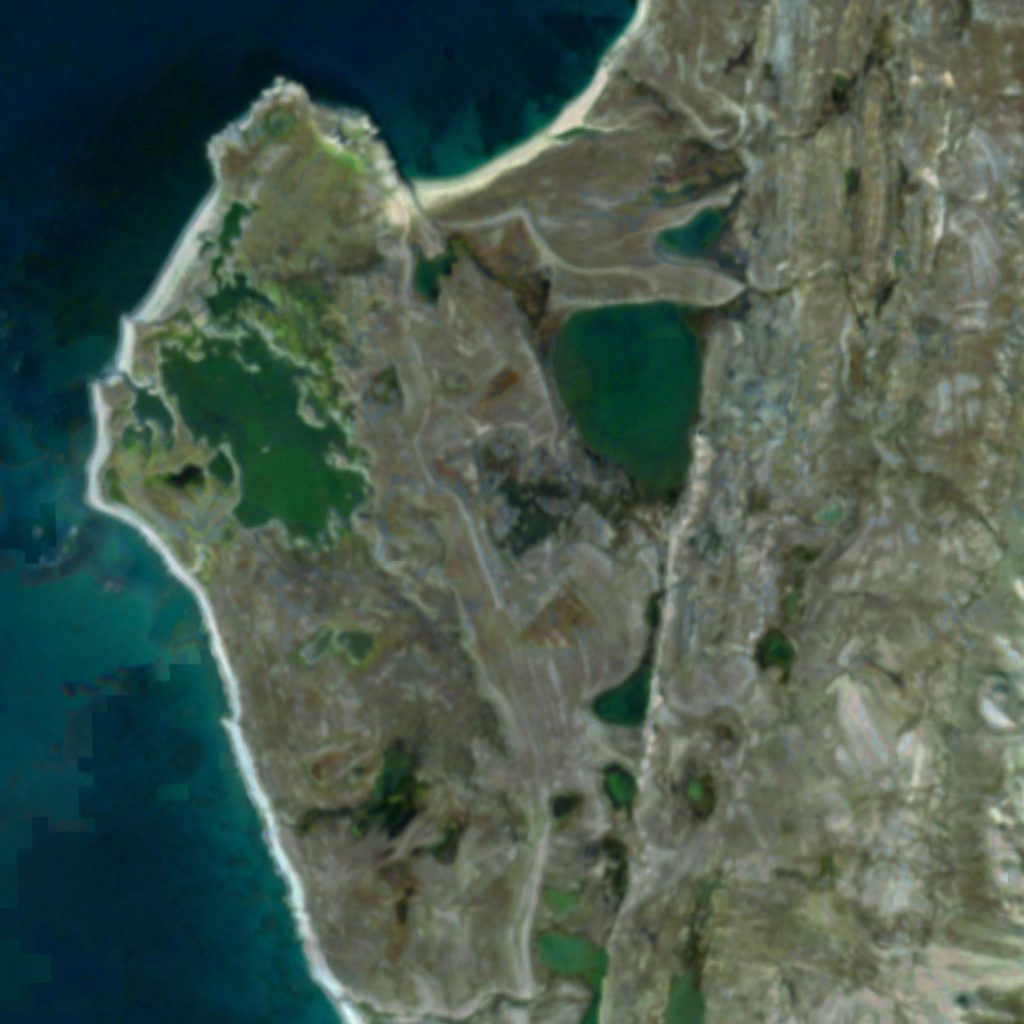
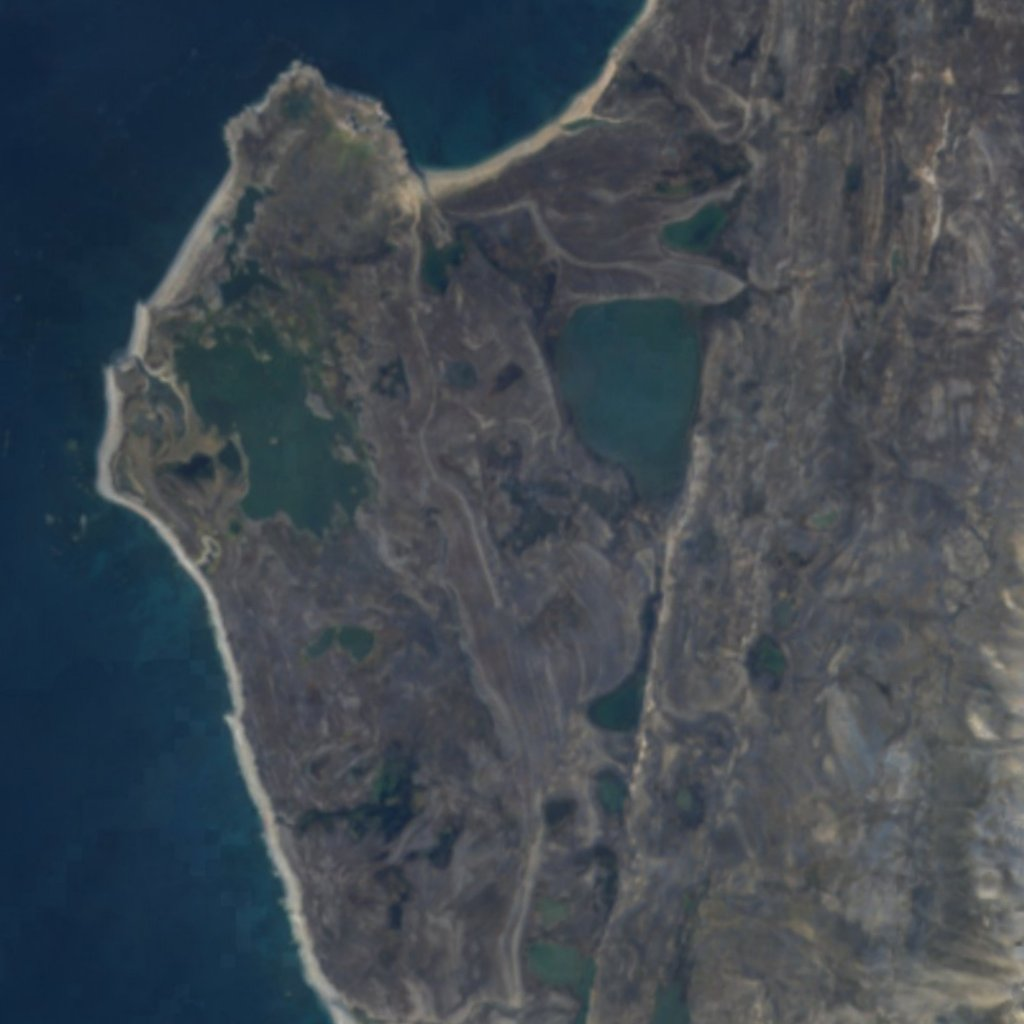
Imagery: CC BY 4.0 Sentinel-2 2016, basin recolor, attribution (#7)
* Imagery: switch to Sentinel-2 cloudless 2016 (CC BY 4.0), rebake square colours on their own grids, in-game credit

- Streamed north, Cesium globe, north backdrop and region bakes now use EOX s2cloudless_3857 (2016), the only CC BY 4.0 vintage; 2018+ are CC BY-NC-SA and were mislabelled CC BY.
- tools/bake/recolor.py samples zoom 15 tiles per post of each square's own CRS grid. The basin colour was a north-up crop on an EPSG:3413 grid (rotated ~44.5 deg) and did not line up with its terrain; it now does.
- Credit line under the Settings map.
- LICENSES-DATA.md / ATTRIBUTION.md updated; streamed imagery no longer swap-before-sales.

* Map test: a far pin now streams (PR #6), so wait and expect stream-*

The map test still assumed the pre-#6 coarse north-* backdrop and sampled
height immediately. Off-island teleports now start a stream (id stream-lat-lon)
and settle asynchronously, the same way --stream-smoke already waits.

---------

diff --git a/src/ui/hud.ts b/src/ui/hud.ts
@@ -302,7 +302,7 @@ function markup(species: Species[]): string {
       <p>Natural Resources Canada, National Hydro Network, work unit 10VE001, flowlines and waterbodies. <a href="https://open.canada.ca/en/open-government-licence-canada">Open Government Licence – Canada</a>.</p>
       <p>Slope, closed depressions, and flow accumulation are derived from the measured DEM. Machine rates, detention, and the ninety-day window are labeled in the inspector as sim parameters.</p>
       <p>Species dots and the observed list are GBIF occurrences. <a href="https://www.gbif.org">GBIF.org</a>. Each record keeps its source dataset licence.</p>
-      <p>World imagery is Sentinel-2 cloudless by EOX, <a href="https://creativecommons.org/licenses/by/4.0/">CC BY 4.0</a>, modified Copernicus Sentinel data 2021, over Natural Earth II. The globe is CesiumJS, Apache-2.0. The basin viewer is Three.js, MIT.</p>
+      <p>World imagery is Sentinel-2 cloudless 2016 by EOX IT Services GmbH, <a href="https://creativecommons.org/licenses/by/4.0/">CC BY 4.0</a>, contains modified Copernicus Sentinel data 2016, over Natural Earth II. The globe is CesiumJS, Apache-2.0. The basin viewer is Three.js, MIT.</p>
       <p class="peers">Creation division · published at atlas.rehab.</p>
     </dialog>
   `;

diff --git a/src/world/globe.ts b/src/world/globe.ts
@@ -8,7 +8,7 @@ import {
 import { PLAYABLE, RING_MARK, RING_TILE, TILES, type WorldTile } from './tiles';
 
 const EOX =
-  'https://tiles.maps.eox.at/wmts/1.0.0/s2cloudless-2021_3857/default/g/{z}/{y}/{x}.jpg';
+  'https://tiles.maps.eox.at/wmts/1.0.0/s2cloudless_3857/default/g/{z}/{y}/{x}.jpg';
 
 export interface Occurrence {
   region: string;
@@ -79,7 +79,7 @@ export class WorldGlobe {
       url: EOX,
       tilingScheme: new Cesium.WebMercatorTilingScheme(),
       maximumLevel: 13,
-      credit: 'Sentinel-2 cloudless by EOX (CC BY 4.0), modified Copernicus Sentinel data 2021',
+      credit: 'Sentinel-2 cloudless 2016 by EOX IT Services GmbH (CC BY 4.0), contains modified Copernicus Sentinel data 2016',
     });
     this.viewer.imageryLayers.addImageryProvider(satellite);
   }

diff --git a/tools/bake/recolor.py b/tools/bake/recolor.py
@@ -1,0 +1,96 @@
+#!/usr/bin/env python3
+"""Rebake the colour of the three 2 m squares from Sentinel-2 cloudless 2016.
+
+Only the 2016 EOX mosaic is CC BY 4.0. Every output pixel is a post of the
+square's own grid (row 0 is maximum Y, column 0 is minimum X), projected to
+latitude and longitude and sampled from the zoom 15 Web Mercator tiles, so
+the colour sits on the same grid as the heights.
+
+Needs numpy, pillow and pyproj.
+"""
+
+from __future__ import annotations
+
+import io
+import math
+import sys
+import urllib.request
+from pathlib import Path
+
+import numpy as np
+from PIL import Image
+from pyproj import Transformer
+
+ROOT = Path(__file__).resolve().parents[2]
+OUT = ROOT / "godot" / "data"
+EOX = "https://tiles.maps.eox.at/wmts/1.0.0/s2cloudless_3857/default/GoogleMapsCompatible/{z}/{y}/{x}.jpg"
+UA = {"User-Agent": "roleplay-recolor/1.0"}
+ZOOM = 15
+SPAN = 3998.0  # 2000 posts at 2 m
+
+# name, epsg, (xmin, ymin) of the square, output size
+SQUARES = {
+    # ArcticDEM tile corner from ATTRIBUTION.md.
+    "basin": (3413, None, (-1_116_740.0, -1_136_008.0), 1024),
+    # Centred windows from regions.py.
+    "europe": (32633, (78.04862, 13.6441), None, 1024),
+    "russia": (32642, (70.49304, 67.91264), None, 1024),
+}
+
+_cache: dict[tuple[int, int], np.ndarray] = {}
+
+
+def tile(x: int, y: int) -> np.ndarray:
+    key = (x, y)
+    if key not in _cache:
+        url = EOX.format(z=ZOOM, x=x, y=y)
+        for _ in range(3):
+            try:
+                req = urllib.request.Request(url, headers=UA)
+                with urllib.request.urlopen(req, timeout=40) as resp:
+                    _cache[key] = np.asarray(Image.open(io.BytesIO(resp.read())).convert("RGB"))
+                break
+            except Exception:
+                continue
+        else:
+            _cache[key] = np.full((256, 256, 3), (40, 48, 42), np.uint8)
+    return _cache[key]
+
+
+def bake(name: str) -> None:
+    epsg, centre, corner, size = SQUARES[name]
+    to_ll = Transformer.from_crs(epsg, 4326, always_xy=True)
+    if corner is None:
+        cx, cy = Transformer.from_crs(4326, epsg, always_xy=True).transform(centre[1], centre[0])
+        xmin, ymin = cx - SPAN / 2, cy - SPAN / 2
+    else:
+        xmin, ymin = corner
+    u = (np.arange(size) + 0.5) / size
+    gx, gy = np.meshgrid(xmin + u * SPAN, ymin + SPAN - u * SPAN)
+    lon, lat = to_ll.transform(gx, gy)
+    n = 2 ** ZOOM * 256
+    px = (lon + 180.0) / 360.0 * n
+    lat_r = np.radians(lat)
+    py = (1.0 - np.log(np.tan(lat_r) + 1.0 / np.cos(lat_r)) / math.pi) / 2.0 * n
+    out = np.zeros((size, size, 3), np.float32)
+    x0, y0 = np.floor(px).astype(np.int64), np.floor(py).astype(np.int64)
+    fx, fy = (px - x0)[..., None], (py - y0)[..., None]
+
+    def at(xx: np.ndarray, yy: np.ndarray) -> np.ndarray:
+        res = np.zeros(xx.shape + (3,), np.float32)
+        tx, ty = xx // 256, yy // 256
+        for key in set(zip(tx.ravel().tolist(), ty.ravel().tolist())):
+            m = (tx == key[0]) & (ty == key[1])
+            res[m] = tile(*key)[yy[m] % 256, xx[m] % 256]
+        return res
+
+    out = (at(x0, y0) * (1 - fx) * (1 - fy) + at(x0 + 1, y0) * fx * (1 - fy)
+           + at(x0, y0 + 1) * (1 - fx) * fy + at(x0 + 1, y0 + 1) * fx * fy)
+    img = Image.fromarray(np.clip(out, 0, 255).astype(np.uint8), "RGB")
+    img.save(OUT / f"{name}_color.jpg", quality=85)
+    print(f"{name}: {len(_cache)} tiles, lat {lat.min():.4f}..{lat.max():.4f} lon {lon.min():.4f}..{lon.max():.4f}", flush=True)
+
+
+if __name__ == "__main__":
+    for name in sys.argv[1:] or SQUARES:
+        bake(name)

diff --git a/tools/bake/regions.py b/tools/bake/regions.py
@@ -26,8 +26,9 @@ ROOT = Path(__file__).resolve().parents[2]
 OUT = ROOT / "godot" / "data"
 STAC = "https://stac.pgc.umn.edu/api/v1/search"
 COLLECTION = "arcticdem-mosaics-v4.1-2m"
-EOX = "https://tiles.maps.eox.at/wmts/1.0.0/s2cloudless-2021_3857/default/GoogleMapsCompatible/{z}/{y}/{x}.jpg"
-EOX_FALLBACK = "https://tiles.maps.eox.at/wmts/1.0.0/s2cloudless-2020_3857/default/GoogleMapsCompatible/{z}/{y}/{x}.jpg"
+EOX = "https://tiles.maps.eox.at/wmts/1.0.0/s2cloudless_3857/default/GoogleMapsCompatible/{z}/{y}/{x}.jpg"
+# 2016 is the only CC BY 4.0 vintage; 2018+ are CC BY-NC-SA. No other-year fallback.
+EOX_FALLBACK = EOX
 
 os.environ.setdefault("AWS_NO_SIGN_REQUEST", "YES")
 os.environ.setdefault("GDAL_DISABLE_READDIR_ON_OPEN", "EMPTY_DIR")

diff --git a/tools/bake/north.py b/tools/bake/north.py
@@ -26,7 +26,7 @@ LAT_LIMIT = 45.0
 POSTS = 640
 ZOOM = 4
 TERRARIUM = "https://s3.amazonaws.com/elevation-tiles-prod/terrarium/{z}/{x}/{y}.png"
-EOX = "https://tiles.maps.eox.at/wmts/1.0.0/s2cloudless-2021_3857/default/GoogleMapsCompatible/{z}/{y}/{x}.jpg"
+EOX = "https://tiles.maps.eox.at/wmts/1.0.0/s2cloudless_3857/default/GoogleMapsCompatible/{z}/{y}/{x}.jpg"
 UA = {"User-Agent": "roleplay-north-bake/1.0"}
 
 

diff --git a/ATTRIBUTION.md b/ATTRIBUTION.md
@@ -22,7 +22,7 @@ Slope, closed-depression depth, and D8 flow accumulation are derived from the me
 
 ## World imagery
 
-Sentinel-2 cloudless by [EOX IT Services GmbH](https://s2maps.eu) (CC BY 4.0), containing modified Copernicus Sentinel data 2021. The fallback mosaic is Natural Earth II, shipped with CesiumJS and in the public domain.
+Sentinel-2 cloudless 2016 by [EOX IT Services GmbH](https://cloudless.eox.at) (CC BY 4.0), containing modified Copernicus Sentinel data 2016. Only the 2016 vintage is CC BY 4.0; the 2018 and later mosaics are CC BY-NC-SA 4.0 and are not used. The fallback mosaic is Natural Earth II, shipped with CesiumJS and in the public domain.
 
 ## Île René-Levasseur
 
@@ -48,7 +48,7 @@ The playable build in `godot/` is [Godot Engine](https://godotengine.org/) 4.7 (
 
 The playable world starts on Île René-Levasseur. The 2 m tile is the NRCan HRDEM mosaic, and an 80 m ring continues that ground out to the reservoir. Cells the ring marks as water sit under the water surface, so the shoreline is the reservoir rather than the edge of the square. Digs on a site are written to a private local file and loaded again on the next visit.
 
-The map and any teleport outside those measured tiles use one coarse polar-stereographic grid of the land from 45°N to the pole. Elevation is Mapzen Terrarium at Web Mercator zoom 4. Color is Sentinel-2 cloudless from EOX, the same imagery family as the measured tiles. The pole beyond the Mercator cutoff is drawn as ocean.
+The map and any teleport outside those measured tiles use one coarse polar-stereographic grid of the land from 45°N to the pole. Elevation is Mapzen Terrarium at Web Mercator zoom 4. Color is Sentinel-2 cloudless 2016 from EOX (CC BY 4.0), the same layer the streamed north uses. The pole beyond the Mercator cutoff is drawn as ocean.
 
 The other three 2 m tiles stay reachable from Settings. The outer few hundred metres of those squares are lowered toward the water along a wandering line so the horizon is a shore. That fringe is not a second survey. The interior posts are the measured DEM.
 
@@ -58,7 +58,7 @@ Northern 2 — Europe is ArcticDEM v4.1 at 2 m on the west coast of Svalbard, a 
 
 Northern 3 — Russia is ArcticDEM v4.1 at 2 m on the west coast of Yamal, a 4 km window in EPSG:32642 centred near 70.493°N, 67.913°E (mosaic tile `49_60_1_2_2m_v4.1`). The machine starts on the tundra above the sea.
 
-Color on the three tiles is Sentinel-2 cloudless from EOX (CC BY 4.0), containing modified Copernicus Sentinel data. Canada uses the 2021 file. Europe and Russia use the 2021 tiles, with the 2020 file as a fallback if a tile is missing.
+Color on the three tiles is Sentinel-2 cloudless 2016 from EOX IT Services GmbH (CC BY 4.0), containing modified Copernicus Sentinel data 2016, rebaked with `tools/bake/recolor.py` from the zoom 15 tiles over each square's exact bounds.
 
 An apron around each square eases from the measured edge posts toward one sample of the Mapzen/Tilezen terrarium DEM (zoom 5): 144 m at the basin and 348 m at the island. That apron is not a second elevation survey. A repeating shading grain, generated here, is a few centimetres of normal perturbation. It does not move the posts.
 

diff --git a/LICENSES-DATA.md b/LICENSES-DATA.md
@@ -30,15 +30,20 @@ replaced or separately licensed before the game is sold.
 ## Streamed north
 
 - Elevation: Mapzen Terrarium on the public AWS bucket, `https://s3.amazonaws.com/elevation-tiles-prod/terrarium/{z}/{x}/{y}.png`.
-- Imagery: EOX Sentinel-2 cloudless, 2021. **Swap before sales.**
+- Imagery: EOX Sentinel-2 cloudless 2016, layer `s2cloudless_3857`. License: CC BY 4.0, commercial use allowed with credit. Credit: Sentinel-2 cloudless 2016 by EOX IT Services GmbH (https://cloudless.eox.at), contains modified Copernicus Sentinel data 2016. The 2018 and later mosaics are CC BY-NC-SA 4.0 and are not used. The free endpoint has no SLA and a fair-use policy, which the capped disk cache respects.
 - Roads, water, and settlements: OpenFreeMap vector tiles (`https://tiles.openfreemap.org/planet/latest/{z}/{x}/{y}.pbf`), OpenMapTiles schema, data from OpenStreetMap. License: ODbL for the OSM data. Credit OpenFreeMap, OpenMapTiles, and OpenStreetMap contributors.
 - Coverage in game is 45°N and north. Tiles are cached under `user://stream` with a file cap.
 
 ## Northern low-resolution backdrop
 
-- Source: the existing polar grid (`godot/data/north.u16`, `godot/data/north_color.jpg`) baked from Mapzen Terrarium elevation and EOX Sentinel-2 cloudless.
+- Source: the polar grid (`godot/data/north.u16`, `godot/data/north_color.jpg`) baked by `tools/bake/north.py` from Mapzen Terrarium elevation and EOX Sentinel-2 cloudless 2016.
 - Elevation tiles: https://s3.amazonaws.com/elevation-tiles-prod/terrarium/ (public AWS terrain tiles, Mapzen/Tilezen schema).
-- Imagery: EOX Sentinel-2 cloudless. **Swap before sales.** Confirm EOX terms before any commercial release.
-- License: terrain tiles are the public AWS terrain-tiles dataset; EOX cloudless is free for many uses but is flagged here so it is not assumed sale-ready.
+- Imagery: EOX Sentinel-2 cloudless 2016, CC BY 4.0 (commercial use allowed with credit).
+- License: terrain tiles are the public AWS terrain-tiles dataset.
+
+## Square colour (Canada basin, Europe, Russia)
+
+- Source: EOX Sentinel-2 cloudless 2016 at zoom 15 (`godot/data/basin_color.jpg`, `europe_color.jpg`, `russia_color.jpg`), rebaked by `tools/bake/recolor.py`.
+- License: CC BY 4.0. Credit as above.
 
 No Google imagery and no paid API keys are used.
